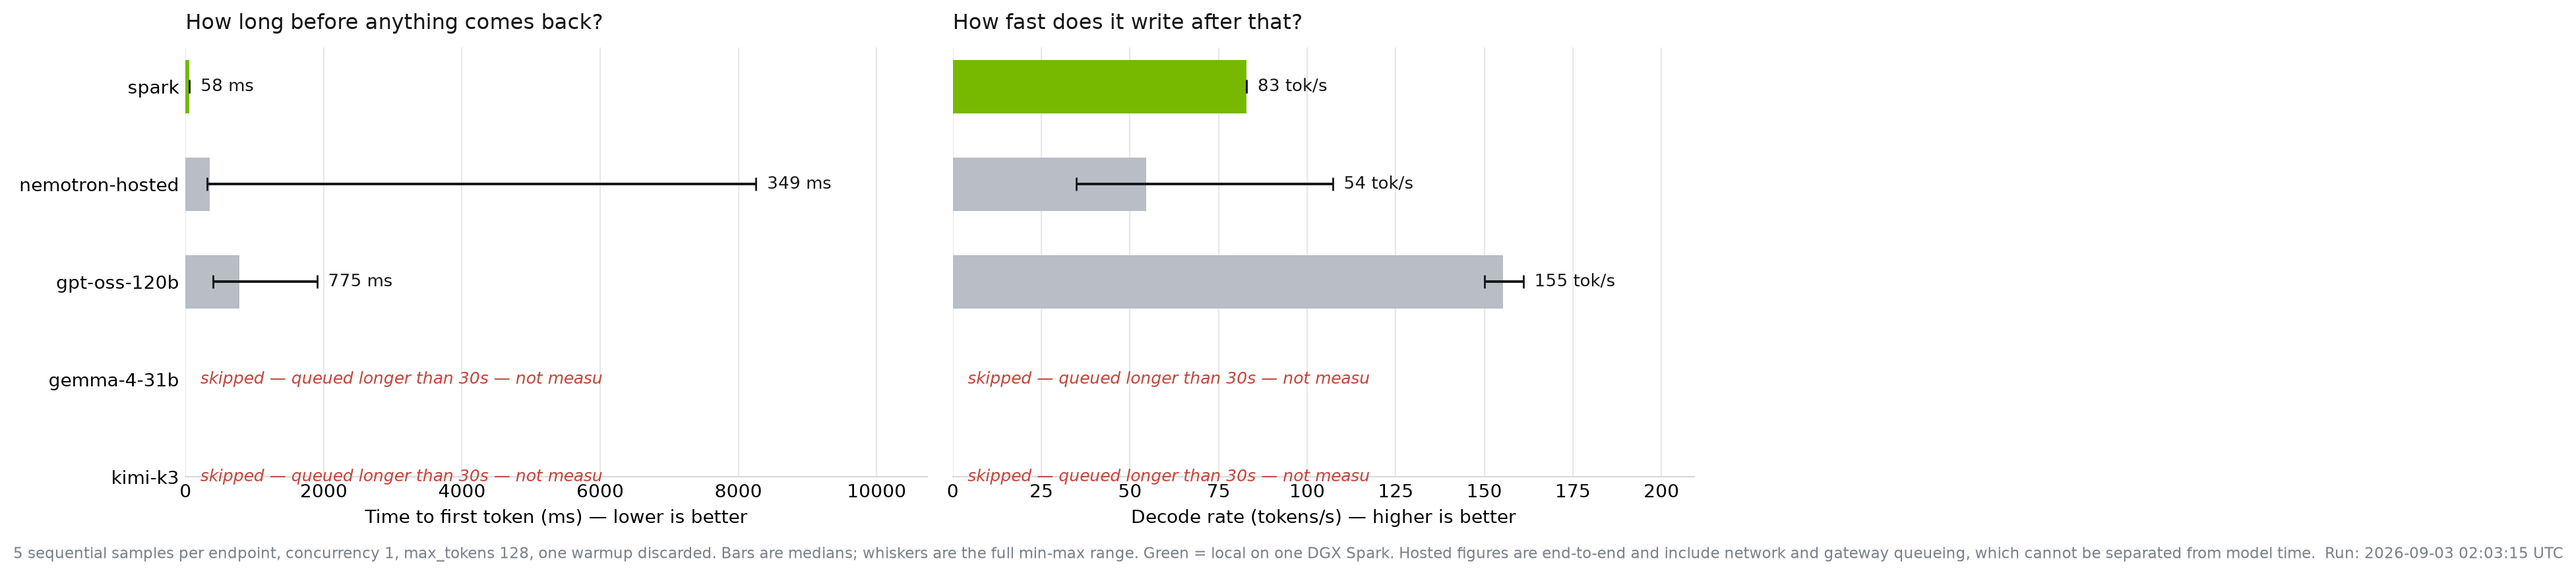
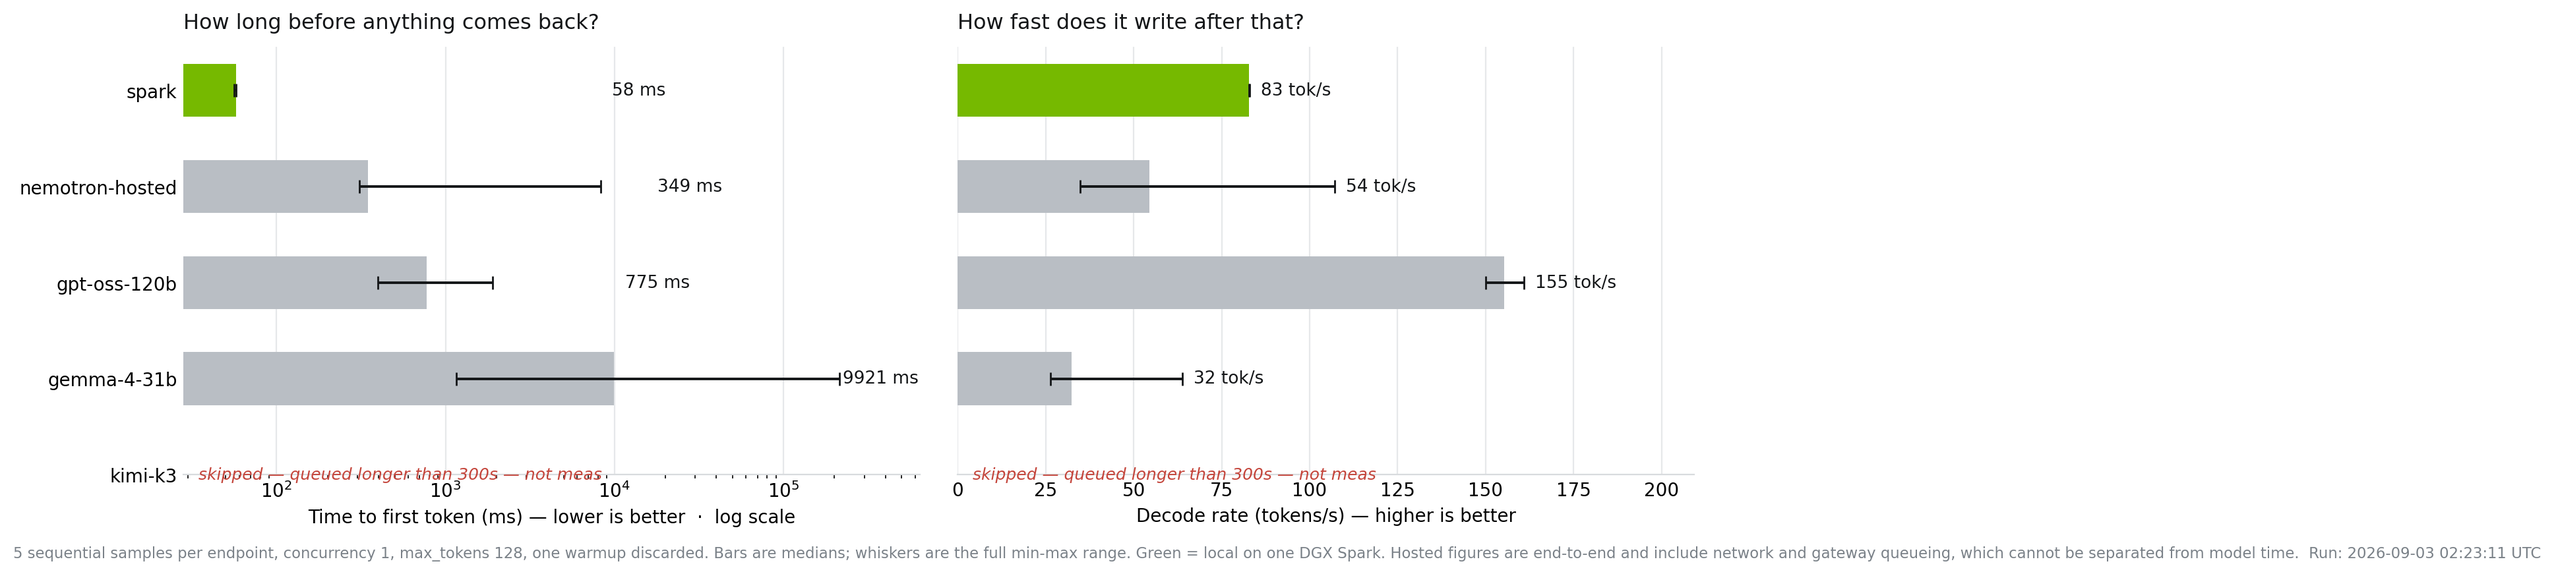
Log-scale only the panel that needs it, and stop deriving a KV cache total
The axis floor was written as min([...] + [1]), pinning the low end at 1
whatever the data said. That forced a log scale onto the decode panel, where
the real spread is 6x, and flattened a genuine 2x difference into two bars
that looked alike. Time to first token still gets a log axis, because 56 ms
against 213 s does not fit a linear one.

The notebook's headroom cell multiplied num_gpu_blocks by block_size and
reported it as a token count. That came out 27% above the "GPU KV cache size"
vLLM prints at startup, so at least one label does not mean what the
arithmetic assumed. It now reports the inputs and points at the startup log,
which is the authoritative figure.

diff --git a/dgx-spark-samples/nemotron-lightning-vllm-endpoint/make_latency_chart.py b/dgx-spark-samples/nemotron-lightning-vllm-endpoint/make_latency_chart.py
@@ -63,11 +63,31 @@ def main() -> int:
         # of the axis rather than a fraction of its own value. A local TTFT of
         # 70 ms on an axis running to 5 s would otherwise land on top of its own
         # whisker cap, which is precisely the row a reader looks at first.
-        top = max([r[key]["max"] for r in ok] + [1]) * 1.30
+        # Fall back only when there is nothing to plot. An earlier version wrote
+        # min([...] + [1]), which pinned the low end at 1 whatever the data said
+        # and forced a log scale onto the decode panel -- flattening a real 2x
+        # difference into two bars that looked alike. A chart that understates
+        # its own finding is the same failure as a number that overstates one.
+        highs = [r[key]["max"] for r in ok]
+        lows = [r[key]["min"] for r in ok]
+        hi = max(highs) if highs else 1
+        lo = min(lows) if lows else 1
+
+        # A queued endpoint can be four orders of magnitude off a local one --
+        # 58 ms against 213 seconds, observed. On a linear axis that renders as
+        # one long bar and four invisible ones, which is not a chart. Switch to
+        # log when the spread demands it and say so on the axis, because a log
+        # scale read as linear understates the difference enormously.
+        log = hi / max(lo, 1e-9) > 50
+        if log:
+            ax.set_xscale("log")
+            label += "  ·  log scale"
+        top = hi * (3.0 if log else 1.30)
         pad = top * 0.015
+        floor = max(lo * 0.5, 1e-9) if log else 0
         for i, r in enumerate(ok):
             v, c, yy = r[key], GREEN if is_local(r) else GREY, y[i]
-            ax.barh(yy, v["median"], height=0.55, color=c, zorder=2)
+            ax.barh(yy, v["median"] - floor, left=floor, height=0.55, color=c, zorder=2)
             if v["max"] > v["min"]:
                 ax.plot([v["min"], v["max"]], [yy, yy], color=INK, lw=1.4,
                         zorder=3, solid_capstyle="butt")
@@ -89,7 +109,7 @@ def main() -> int:
         ax.set_title(title, fontsize=11.5, color=INK, pad=10, loc="left")
         ax.grid(axis="x", color="#E6E8EA", zorder=0)
         ax.set_axisbelow(True)
-        ax.set_xlim(0, top)
+        ax.set_xlim(floor, top)
 
     panel(ax1, "ttft_ms", "{:.0f} ms", "Time to first token (ms) — lower is better",
           "How long before anything comes back?")
